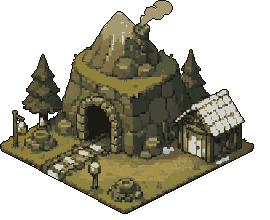
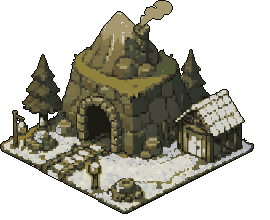
Kış rötuşları: yıkık+kış, maden/taş ocağı, zemin karı, süsler, şapel
Yıkık bina varyantlarına karlı sürüm (*_yikik_karli, varyantlar.json); varyant.js
kış + sur hasarında bunu seçer. Karlı varyantlarda maden/taş ocağı toprak avlusu
(ön bant) karlandı; karı tutmamış maden1/tasocagi2 üstüne ince kar.
arka_karli: zemin karı çatılarla aynı krem ailesi, büyük sakin kümeler, gölgeler
yalnız büyük nesnelerde, yumuşak ve seyrek; kar kenarında koyu kırıntı halesi yok;
gömülü fıçı/saman çevresindeki koyu halka ve küçük yeşil kırıntılar kara katıldı.
Süsler: _karli daha seyrek (ic2 gibi), tezgahta kar yalnız tentenin üst kenarında;
agac2 gövdesi zemin noktasına kadar ve 1 px kalın. Şapel: çatının karsız alt
yarısı üst çatıdaki benekli karla aynı dokuda.

Changed region(s): [[0.237, 0.6273, 0.8296, 0.9545], [0.0, 0.5727, 0.3259, 0.7636], [0.8296, 0.6273, 0.9481, 0.7364]]

diff --git a/motor-deneme-5b8e2f/js/varyant.js b/motor-deneme-5b8e2f/js/varyant.js
@@ -85,6 +85,8 @@ const Varyant = {
     if (!hal) return temel;
     const kv = h => 'kv_' + temel.slice(2) + '_' + h;   // k_demirci3 → kv_demirci3_karli
     if (hal === 'gece' && this.kisMi(sahne) && sahne.textures.exists(kv('karli'))) return kv('karli');
+    // kış + sur hasarı: yıkık binanın karlı sürümü
+    if (hal === 'yikik' && this.kisMi(sahne) && sahne.textures.exists(kv('yikik_karli'))) return kv('yikik_karli');
     return sahne.textures.exists(kv(hal)) ? kv(hal) : temel;
   },
   // Doku gece görseliyse hafif ton; gündüz/kar görseli gece gösteriliyorsa koyu gece tonu

diff --git a/motor-deneme-5b8e2f/uretim/betikler/kis_sprite.py b/motor-deneme-5b8e2f/uretim/betikler/kis_sprite.py
@@ -32,7 +32,7 @@ def gurultu(H, W, tohum=5, s=1.3):
     return g / (g.std() + 1e-6)
 
 
-def kar_sprite(a, kapsam=0.5, bant=0.3, tohum=5):
+def kar_sprite(a, kapsam=0.5, bant=0.3, tohum=5, sadece_ust=False):
     a = a.copy()
     H, W = a.shape[:2]
     dolu = a[..., 3] > 200
@@ -41,6 +41,9 @@ def kar_sprite(a, kapsam=0.5, bant=0.3, tohum=5):
     kontur = dolu & (lum < 45)
     yuzey = dolu & ~kontur
     ust_bos = np.zeros_like(dolu); ust_bos[1:] = ~dolu[:-1] | kontur[:-1]; ust_bos[0] = True
+    if sadece_ust:                                          # only the outer top silhouette (awnings)
+        ust_bos = np.zeros_like(dolu); ust_bos[1:] = ~dolu[:-1]; ust_bos[0] = True
+        ust_bos |= np.roll(ust_bos, 1, axis=0) & kontur      # just under the outer outline
     kap = yuzey & ust_bos                                   # first surface pixel under air / outline
     kap2 = np.zeros_like(kap); kap2[1:] = kap[:-1]
     g = gurultu(H, W, tohum)
@@ -50,6 +53,8 @@ def kar_sprite(a, kapsam=0.5, bant=0.3, tohum=5):
     for x in np.nonzero(dolu.any(0))[0]:
         ys = np.nonzero(dolu[:, x])[0]
         ust_bant[ys[0]:ys[0] + max(1, int(len(ys) * bant)), x] = True
+    if bant <= 0:
+        ust_bant[:] = False
     esik = np.quantile(g[ust_bant & yuzey], 1 - kapsam) if (ust_bant & yuzey).any() else 0
     alan = ust_bant & yuzey & (g > esik) & (lum > 60)
     kar = kap | alan
@@ -98,13 +103,17 @@ def agac2_govde(a):
     xs = np.nonzero(dolu[y_alt])[0]
     x0, x1 = xs.min(), xs.max()
     satir = a[y_alt, x0 - 1:x1 + 2].copy()
-    for k in range(1, 8):
-        y = y_alt + k
-        if y >= a.shape[0] - 3:
-            break
+    son = a.shape[0] - 4                                    # the placement point is the image bottom
+    for y in range(y_alt + 1, son):
         a[y, x0 - 1:x1 + 2] = satir
+    # 1 px thicker trunk all the way down (dark bark on the right side)
+    govde = dolu.copy(); govde[:y_alt - 10] = False
+    for y in range(y_alt - 10, son):
+        xs_ = np.nonzero(a[y, :, 3] > 200)[0]
+        if len(xs_) and xs_.max() - xs_.min() < 10:
+            a[y, xs_.max() + 1] = (40, 28, 24, 255)
     # small root flare + outline on the last row
-    y = min(y_alt + 7, a.shape[0] - 4)
+    y = son
     a[y, x0 - 2:x1 + 3] = satir[len(satir) // 2]
     a[y, x0 - 3] = a[y, x1 + 3] = (22, 17, 20, 255)
     a[y + 1, x0 - 2:x1 + 3] = (22, 17, 20, 255)
@@ -122,12 +131,16 @@ def sus():
             if ad == "agac2":
                 a = agac2_govde(a)
             K.golge_ciz(a).save(f"{OUT}/{ad}.png")
-        K.golge_ciz(kar_sprite(a, bant=0.22 if ad.startswith("agac") else 0.3)).save(f"{OUT}/{ad}_karli.png")
+        if ad == "tezgah":
+            kar = kar_sprite(a, bant=0, sadece_ust=True)          # awning stripes stay visible
+        else:
+            kar = kar_sprite(a, kapsam=0.3, bant=0.16 if ad.startswith("agac") else 0.2)   # sparse, like ic2
+        K.golge_ciz(kar).save(f"{OUT}/{ad}_karli.png")
         K.golge_ciz(gece_sprite(a), 70).save(f"{OUT}/{ad}_gece.png")
         print(ad)
 
 
-def zemin_karla(a):
+def zemin_karla(a, toprak_da=False):
     """Ground tiles in the lower diamond of a building sprite -> snow (grass, olive, dirt, fields)."""
     a = a.copy()
     H, W = a.shape[:2]
@@ -153,6 +166,12 @@ def zemin_karla(a):
     # only grass-like ground: green or olive green, fairly smooth (walls, plaster, wood are not)
     zeytin = (g >= r * 1.0) & (b < g * 0.78) & (sat > 0.27)
     zemin = elmas & (yesil | zeytin) & (sd < 18) & (lum > 40)
+    if toprak_da:
+        # mine / quarry: the dirt yard too, but only in the front band of the diamond (not the walls)
+        alt_y = np.array([np.nonzero(dolu[:, x])[0].max() if dolu[:, x].any() else 0 for x in range(W)])
+        bant = (yy >= alt_y[None, :] - 0.42 * (alt_y.max() - ust_kenar.min())) & (yy <= alt_y[None, :])
+        topr = (r > g * 1.08) & (g > b * 1.02) & (sat > 0.22) & (lum > 55) & (lum < 175) & (sd < 32)
+        zemin |= elmas & bant & topr
     zemin = ndimage.binary_opening(zemin, np.ones((2, 2)))
     lab, n = ndimage.label(zemin)
     if n:
@@ -167,19 +186,70 @@ def zemin_karla(a):
 def bina_varyant():
     orj = "D:/AI/araclar/orijinal/varyant"
     os.makedirs(orj, exist_ok=True)
-    for p in sorted(glob.glob(f"{KALE}/varyant/*_karli.png")):
+    for p in sorted(q for q in glob.glob(f"{KALE}/varyant/*_karli.png") if "_yikik_" not in q):
         ad = os.path.basename(p)
         y = f"{orj}/{ad}"
         if not os.path.exists(y):
             Image.open(p).save(y)
         a = np.asarray(Image.open(y).convert("RGBA"))
-        k, z = zemin_karla(a)
+        # variants where the old snow pass did not take (maden1, tasocagi1/2...): thin snow on top
+        m = a[..., 3] > 200
+        f = a[m][:, :3].astype(int)
+        beyaz = ((f.min(1) > 195) & (f.max(1) - f.min(1) < 30)).mean()
+        if beyaz < 0.03:
+            a = kar_sprite(a, kapsam=0.5, bant=0.3, tohum=13)
+        k, z = zemin_karla(a, toprak_da=ad.startswith(("maden", "tasocagi")))
         Image.fromarray(k, "RGBA").save(p)
+        if beyaz < 0.03:
+            print("  +kar", ad, round(beyaz, 3))
         print(ad, int(z.sum()))
 
 
+def yikik_karli():
+    """Snowy versions of the ruined building variants (winter + wall damage): thin cream snow on top
+    surfaces + snow on the ground tiles. Registered in varyantlar.json as 'yikik_karli'."""
+    import json
+    V = f"{KALE}/varyant"
+    J = json.load(open(f"{V}/varyantlar.json", encoding="utf-8"))
+    for p in sorted(glob.glob(f"{V}/*_yikik.png")):
+        ad = os.path.basename(p)[:-len("_yikik.png")]
+        a = np.asarray(Image.open(p).convert("RGBA"))
+        k = kar_sprite(a, kapsam=0.55, bant=0.32, tohum=11)
+        k, _ = zemin_karla(k, toprak_da=ad.startswith(("maden", "tasocagi")))
+        Image.fromarray(k, "RGBA").save(f"{V}/{ad}_yikik_karli.png")
+        J["dosyalar"].setdefault(ad, {})["yikik_karli"] = {"dosya": f"{ad}_yikik_karli.png", "kalite": "iyi"}
+        print(ad)
+    json.dump(J, open(f"{V}/varyantlar.json", "w", encoding="utf-8"), ensure_ascii=False, indent=1)
+
+
+def sapel():
+    """Chapel (ic2): the old snow covered the upper roof as a speckled cream texture and left the
+    lower roof bare (hard tone break). Bare red roof tiles get the same speckled snow."""
+    eski = "D:/AI/araclar/orijinal/sapel_karli_eski.png"
+    a = np.asarray(Image.open(eski).convert("RGBA")).copy()
+    f = a[..., :3].astype(np.float32)
+    r, g, b = f[..., 0], f[..., 1], f[..., 2]
+    mx, mn = f.max(-1), f.min(-1)
+    sat = (mx - mn) / np.maximum(mx, 1)
+    lum = f @ [0.299, 0.587, 0.114]
+    kiremit = (a[..., 3] > 200) & (r > g * 1.25) & (sat > 0.3) & (lum > 45)
+    kiremit = ndimage.binary_closing(kiremit, np.ones((3, 3))) & (a[..., 3] > 200) & (lum > 35)
+    kiremit[int(kiremit.shape[0] * 0.62):] = False        # below the eaves: the wooden door, not roof
+    # the snowy upper roof: about half the pixels near-white, the rest the tile colour lightened
+    H, W = kiremit.shape
+    desen = gurultu(H, W, 31, 0.7) > 0.0
+    krem = np.array([236, 234, 226], np.float32)
+    c = np.where(desen[..., None], krem * (0.9 + 0.1 * (lum[..., None] / 255)), f * 0.55 + krem * 0.45)
+    a[kiremit, :3] = np.clip(c[kiremit], 0, 255).astype(np.uint8)
+    Image.fromarray(a, "RGBA").save(f"{KALE}/sus/ic2/sapel_karli.png")
+
+
 if __name__ == "__main__":
-    if sys.argv[1] == "sus":
+    if sys.argv[1] == "sapel":
+        sapel()
+    elif sys.argv[1] == "sus":
         sus()
+    elif sys.argv[1] == "yikik":
+        yikik_karli()
     else:
         bina_varyant()

diff --git a/motor-deneme-5b8e2f/uretim/betikler/kar2.py b/motor-deneme-5b8e2f/uretim/betikler/kar2.py
@@ -42,9 +42,9 @@ def kar_tonlari(n=5):
     lum = px @ [0.299, 0.587, 0.114]
     # the variants' snow is nearly one colour: start from their lightest tone and step towards a cold
     # blue grey, so the ground has 3-4 readable tones and a shadow tone
-    acik = np.median(px[lum >= np.quantile(lum, 0.8)], 0)
-    adim = np.array([[0, 0, 0], [16, 13, 7], [34, 28, 15], [56, 46, 24], [80, 66, 34]], np.float32)
-    return np.clip(acik - adim[:n], 0, 255)
+    # same family as the cream snow on the roofs, cooler only in the shadow steps
+    return np.array([[236, 236, 230], [224, 226, 226], [208, 214, 222], [188, 198, 214], [166, 178, 202]],
+                    np.float32)[:n]
 
 
 ZEMIN = []
@@ -136,7 +136,16 @@ def karla(ad, im):
         boy = np.bincount(lab.ravel()); boy[0] = 0
         cekirdek = np.zeros(n + 1, bool)
         np.maximum.at(cekirdek, lab.ravel(), (koyu | yapi | cati).ravel())
-        zemin |= (((boy < 150) & ~cekirdek) | (boy < 60))[lab] & (lab > 0) & ~yapi & ~cati
+        zemin |= (((boy < 250) & ~cekirdek) | (boy < 120))[lab] & (lab > 0) & ~yapi & ~cati
+    if ad == "arka":
+        # dark smooth shadow rings around props baked into the background (barrels, hay, stalls)
+        sys.path.insert(0, os.path.dirname(os.path.abspath(__file__)))
+        import arka_hd as AH
+        for kutu_ in AH.KORU["arka"].values():
+            (x0, y0, x1, y1) = kutu_[0] if len(kutu_) == 3 else kutu_
+            kk = np.zeros((H, W), bool); kk[int(y0 * 1.5):int(y1 * 1.5), int(x0 * 1.5):int(x1 * 1.5)] = True
+            halka = kk & (lum < 70) & (sd < 14) & ~yapi & ~cati & ndimage.binary_dilation(zemin, iterations=5)
+            zemin |= halka
     # smoother snow edge: no 1 px teeth
     zemin = ndimage.binary_opening(ndimage.binary_closing(zemin, np.ones((3, 3))), np.ones((2, 2))) | (zemin & ~ndimage.binary_dilation(~zemin, iterations=1) )
     zemin &= alfa & ~yapi & ~cati
@@ -146,25 +155,29 @@ def karla(ad, im):
     out = f.copy()
     # ground texture: old brightness (bumps, tracks) + small clustered noise, 4 tones
     rng = np.random.default_rng(3)
-    gur = ndimage.gaussian_filter(rng.standard_normal((H, W)), 2.4)   # larger, calmer clusters
+    gur = ndimage.gaussian_filter(rng.standard_normal((H, W)), 4.0)   # large, calm clusters
     gur /= gur.std() + 1e-6
-    yerel = ndimage.gaussian_filter(lum, 2.0)
-    yerel = (yerel - ndimage.gaussian_filter(lum, 14)) / 25.0
-    t = 0.9 - 0.7 * yerel - 0.5 * gur                      # ~0 light .. ~3 dark
+    yerel = ndimage.gaussian_filter(lum, 3.0)
+    yerel = (yerel - ndimage.gaussian_filter(lum, 16)) / 25.0
+    t = 0.7 - 0.45 * yerel - 0.4 * gur                     # mostly the two light tones
     # shadow: an object up-left of the pixel (light from the top left)
-    golge = np.zeros((H, W), bool)
-    for k in range(1, 9):
-        golge |= kaydir(nesne, k // 2, k)
-        golge |= kaydir(nesne, k, k // 2)
-    golge &= zemin
+    # soft, sparse shadows: only objects of some size cast one, blurred and thresholded
+    lab_n, nn = ndimage.label(nesne)
+    buyuk = nesne.copy()
+    if nn:
+        bb = np.bincount(lab_n.ravel()); bb[0] = 0
+        buyuk = (bb >= 200)[lab_n] & nesne
+    gol = np.zeros((H, W), np.float32)
+    for k in range(2, 11, 2):
+        gol = np.maximum(gol, kaydir(buyuk, k // 2, k).astype(np.float32))
+    golge = (ndimage.gaussian_filter(gol, 2.5) > 0.45) & zemin
     yakin = ndimage.binary_dilation(nesne, iterations=2) & zemin
-    t = np.where(golge, t + 2.2, t)
+    t = np.where(golge, t + 1.7, t)
     t = np.where(yakin & ~golge, t - 0.8, t)               # light-facing drift at object feet
     # soft edge: one tone step on the 1-2 px rim against objects
     kenar1 = zemin & ndimage.binary_dilation(nesne, iterations=1)
     kenar2 = zemin & ndimage.binary_dilation(nesne, iterations=2) & ~kenar1
-    t = np.where(kenar1, np.maximum(t, 2), t)
-    t = np.where(kenar2, np.maximum(t, 1), t)
+    t = np.where(kenar1 & ~golge, np.maximum(t, 1), t)    # one light step only, no dark crumb rim
     idx = np.clip(np.round(t), 0, 4).astype(int)
     out[zemin] = ton[idx][zemin]
 
